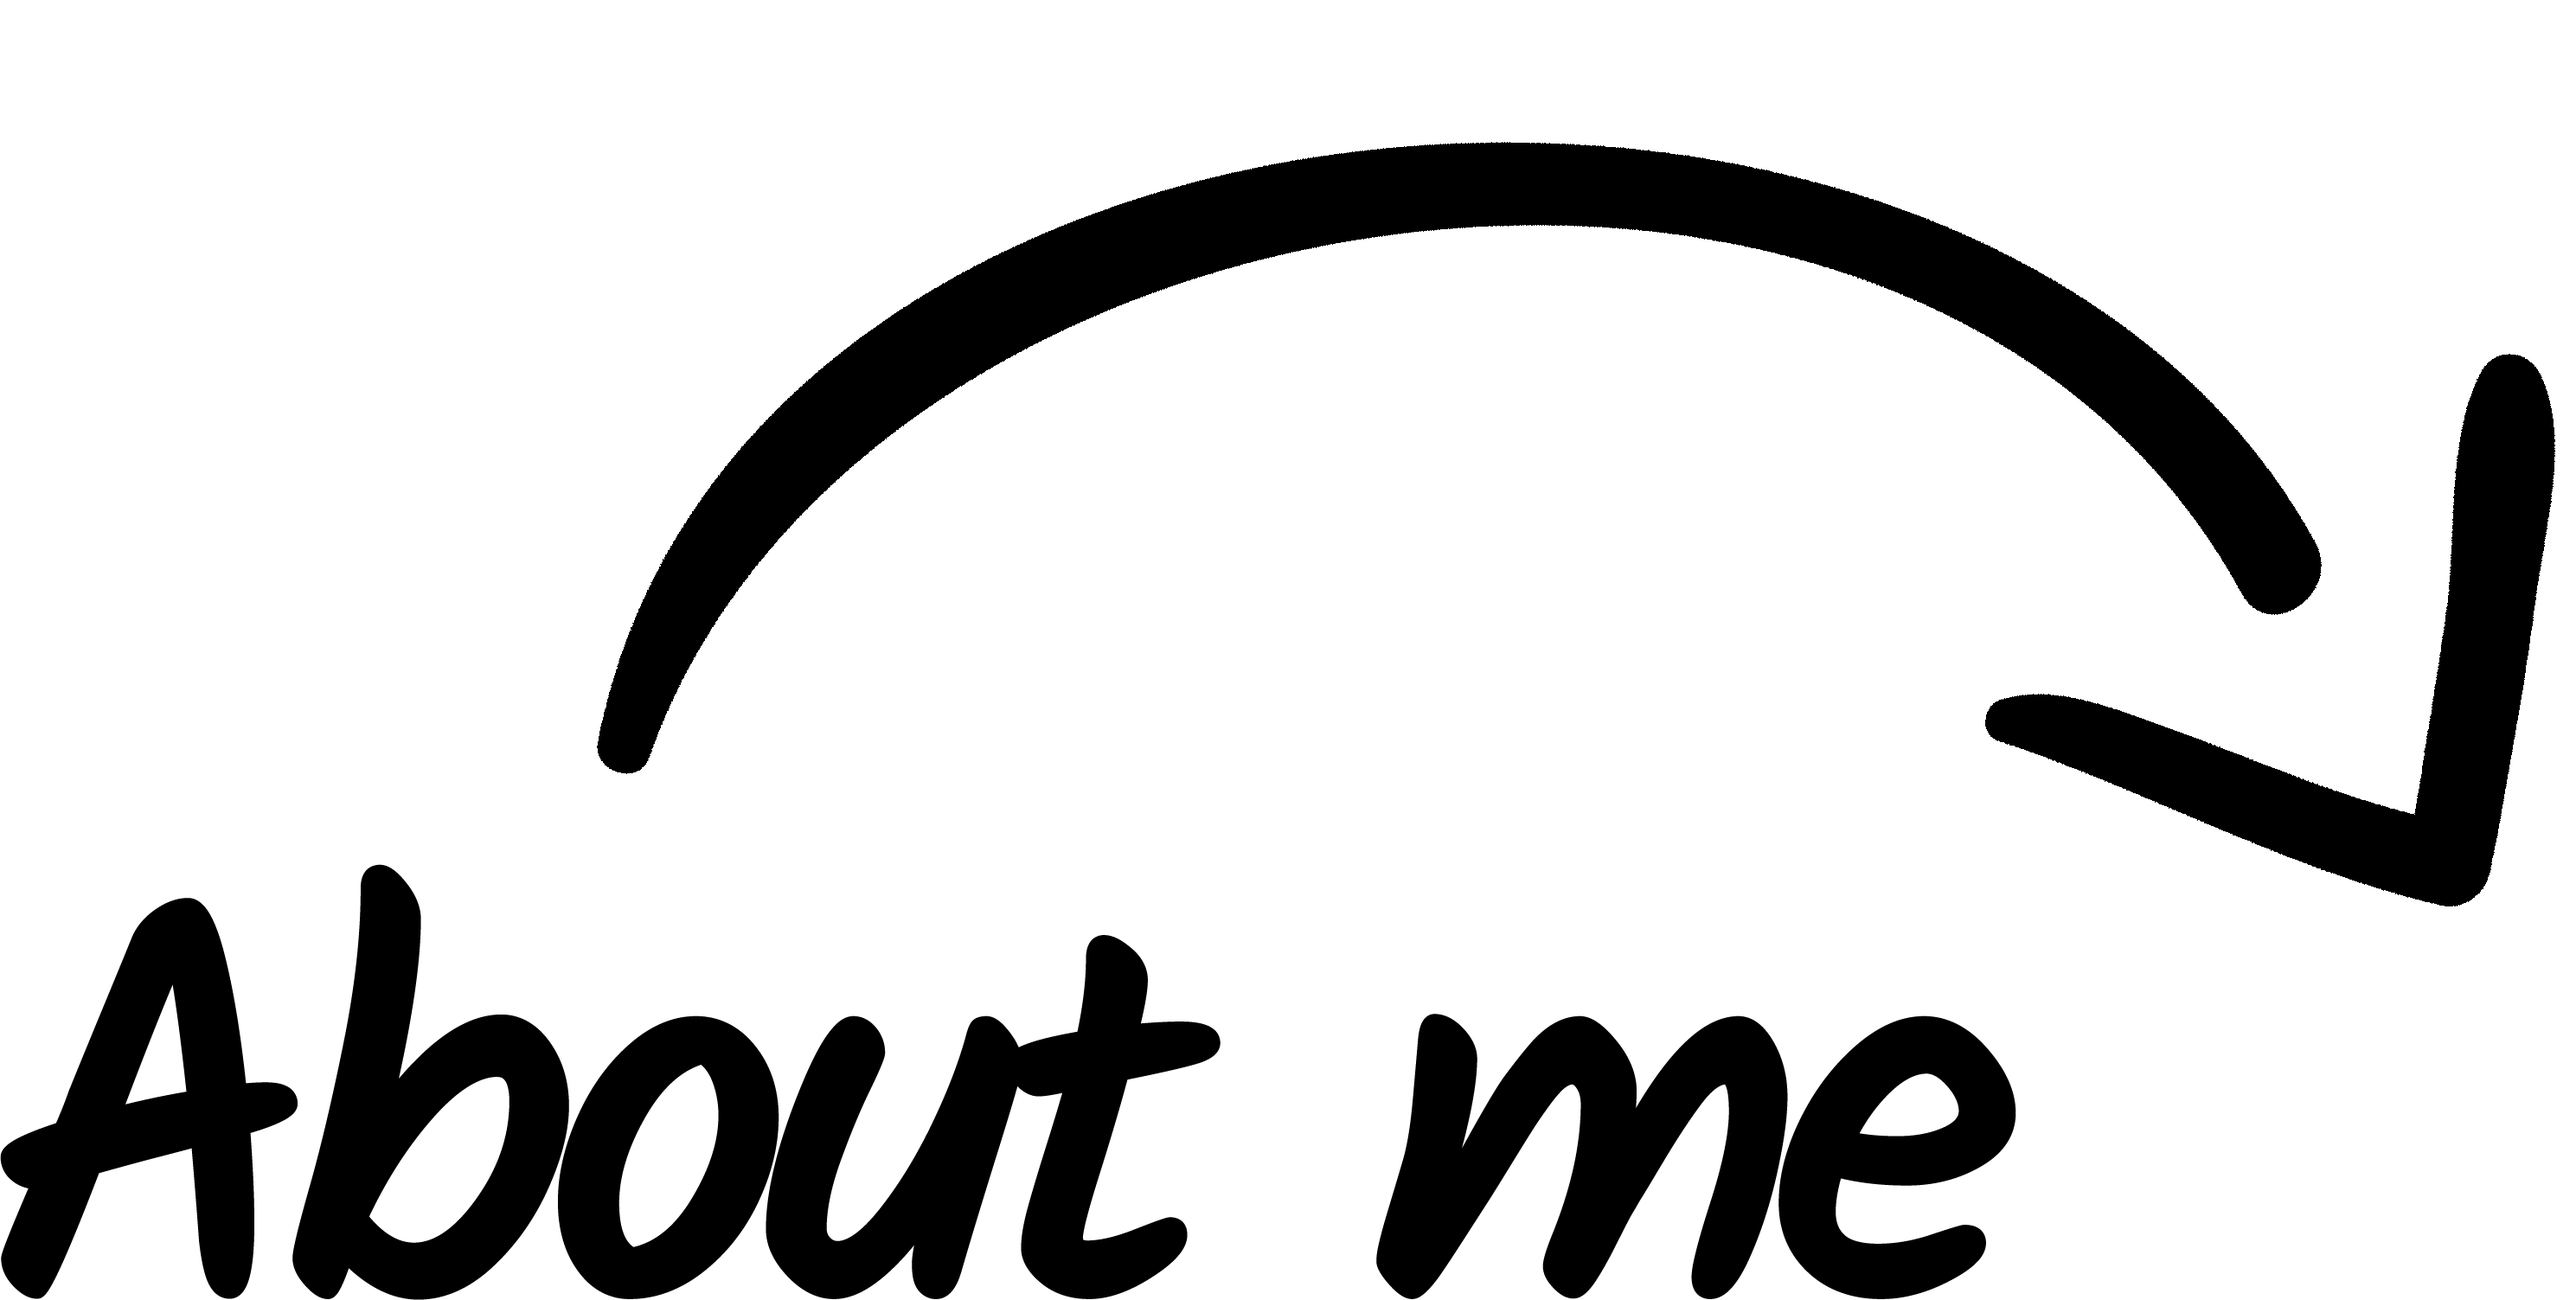
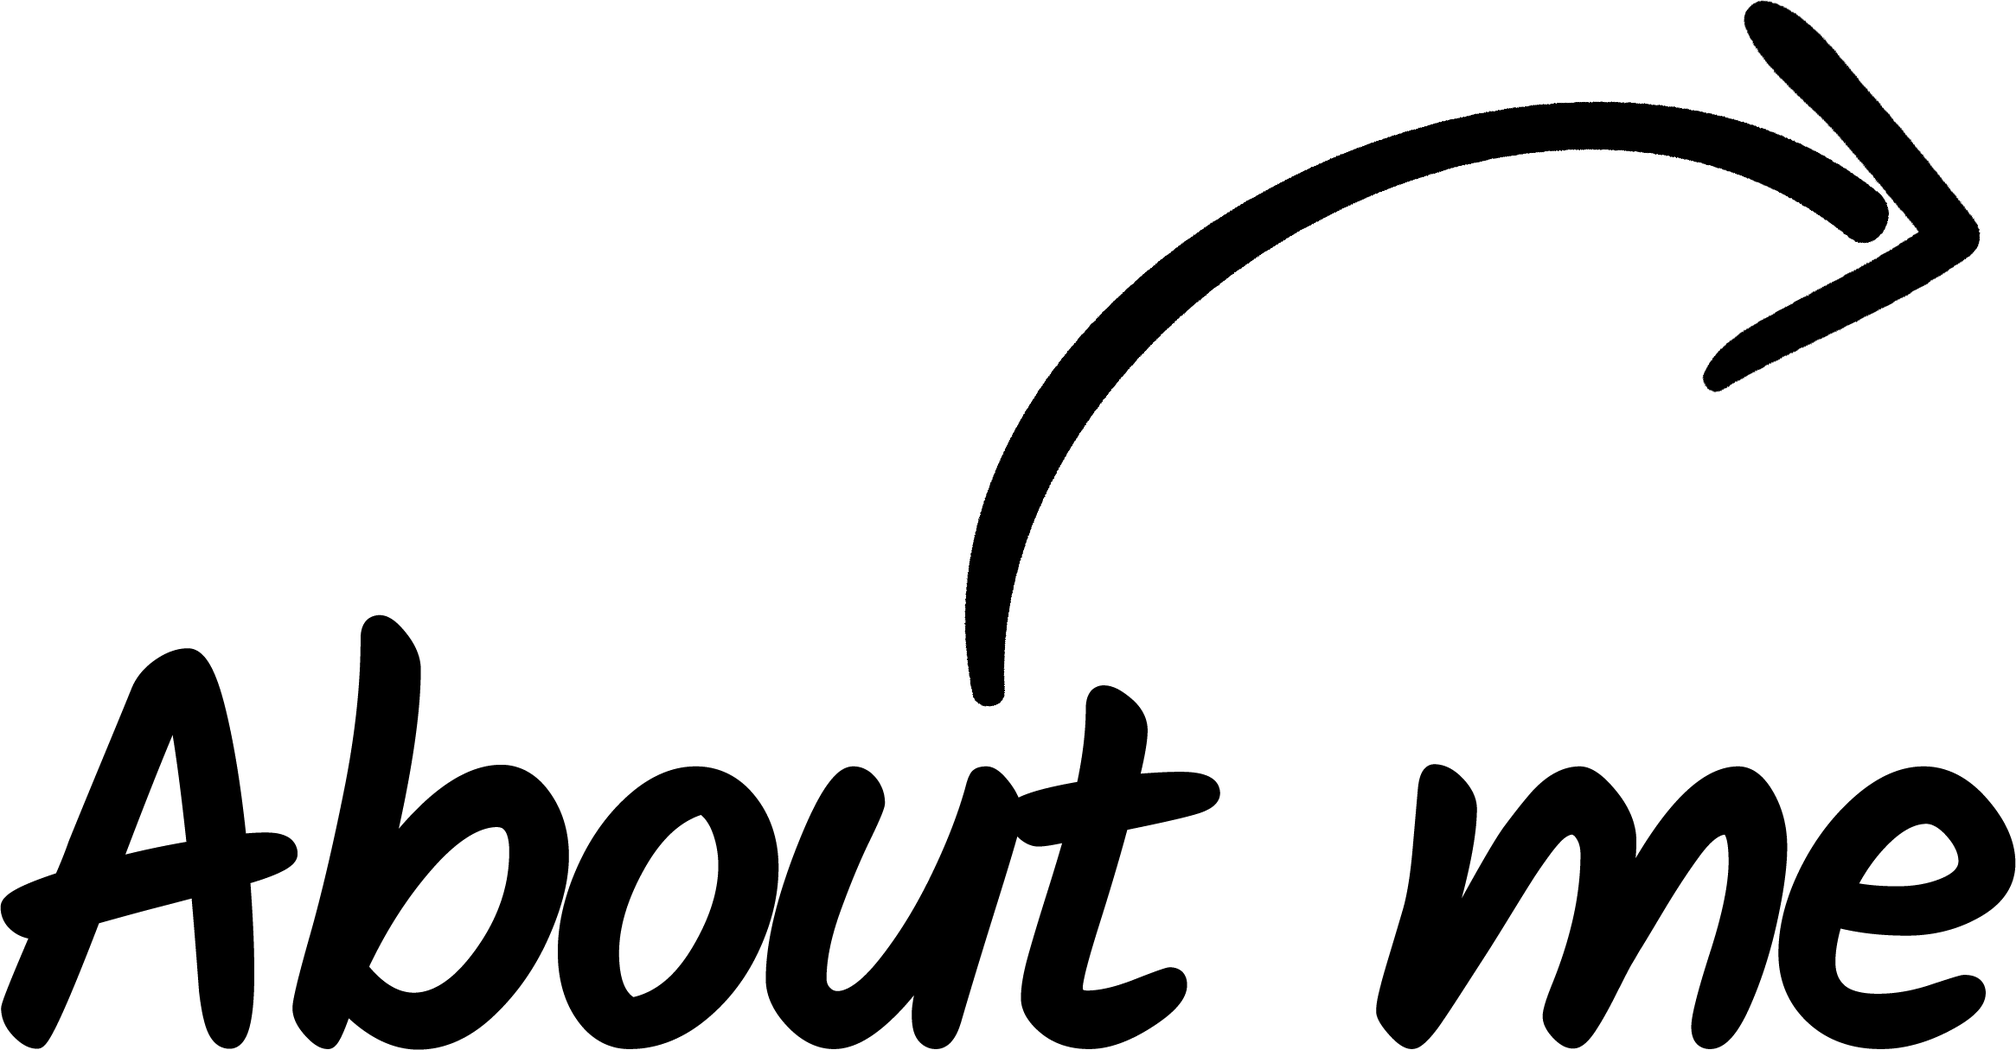
added hover js

Changed region(s): [[0.0, 0.0, 1.0, 1.0], [0.0, 0.944, 0.0309, 1.0]]

diff --git a/index.html b/index.html
@@ -7,6 +7,7 @@
 <meta name="description" content="My homepage">
 <meta name="viewport" content="width=device-width, initial-scale=1"> 
 <link rel="stylesheet" type="text/css" href="style/style.css">
+<script src="https://ajax.googleapis.com/ajax/libs/jquery/3.3.1/jquery.min.js"></script>
 <script src="script/script.js"></script>
 <link rel="stylesheet" href="https://fonts.googleapis.com/css?family=Alegreya+Sans+SC">
 
@@ -17,25 +18,25 @@
         <li><div class="hexagon"></div></li>
         <li><div class="hidden"></div></li>
         <li><div class="hidden"></div></li>
-        <li><div class="hexagon" id="title"></div></li>
+        <li><div class="hexagon"><div  id="title"></div></div></li>
         <li><div class="hexagon img" id="about"><img class="garrosh" src="images/sasasa.jpg"></div></li>
         <li><div class="hexagon"></div></li>
-        <li><div class="hexagon">
+        <li><div class="hexagon" id="social">
             <ul id="minigrid" class="clear">
                 <li><div class="hidden1"></div></li>
                 <li><div class="hidden1"></div></li>
                 <li><div class="hexagon img"><a href="mailto: tomlubkowski@gmail.com"><img class="mail" src="images/mail.png"></a></div></li>
                 <li><div class="hexagon img"><a href="http://www.github.com/tomaszlubkowski" target="_blank"><img class="git" src="images/GitHub-Mark-120px-plus.png"></a></div></li>
                 <li><div class="hexagon img"><a href="http://www.instagram.com/twojnajlepszyprzyjaciel" target="_blank"><img class="git" src="images/IG_Glyph_Fill.png"></a></div></li>
-                <li><div class="hexagon img"><a href="tel: +48694564614"><img class="phone" src="images/phone.png"></a></div></li>
+                <li><div class="hidden1"></div></li>
                 <li><div class="hidden1"></div></li>
                 <li><div class="hidden1"></div></li>
                 <li><div class="hexagon img"><a href="http://www.facebook.com/tomaszlubkowski" target="_blank"><img class="git" src="images/flogo_RGB_HEX-114.png"></a></div></li>
-                <li><div class="hexagon"></div></li>
+                <li><div class="hidden1"></div></li>
                 <li><div class="hexagon img"><a href="http://www.linkedin.com/in/tomaszlubkowski" target="_blank"><img class="lin" src="images/In-2C-128px-TM.png"></a></div></li>
-                <li><div class="hexagon"></div></li>
-                <li><div class="hexagon"></div></li>
-                <li><div class="hexagon"></div></li>
+                <li><div class="hexagon img"><a href="tel: +48694564614"><img class="phone" src="images/phone.png"></a></div></li>
+                <li><div class="hidden1"></div></li>
+                <li><div class="hidden1"></div></li>
                 <li><div class="hidden1"></div></li>
             </ul>
         </div></li>

diff --git a/style/style.css b/style/style.css
@@ -3,10 +3,26 @@ body {
 
 }
 
-div #about:hover ~ div #title{
+.about{
+    margin-left: 10%;
+    margin-top: 5%;
+    width: 80%;
+    height: 80%;
     background-image: url('../images/aboutme.png');
     background-position: center;
-    background-size: cover;
+    background-size: contain;
+    background-repeat: no-repeat;
+}
+
+.social{
+    margin-left: 10%;
+    margin-top: 15%;
+    width: 80%;
+    height: 80%;
+    background-image: url('../images/sociallinks.png');
+    background-position: center;
+    background-size: contain;
+    background-repeat: no-repeat;
 }
 
 img{    
@@ -94,8 +110,8 @@ img:hover{
 
 #minigrid {
     position: relative;
-    width: 90%;
-    margin: -5% -5% auto;
+    width: 100%;
+    margin-left: -12%;
     padding: 0; /* Clears unordered list default of 40px */
 }
 

diff --git a/script/script.js b/script/script.js
@@ -1,0 +1,14 @@
+$(document).ready(
+    function(){
+    $("#social").hover(function(){
+        $("#title").addClass("social");
+    },
+    function(){
+        $("#title").removeClass("social");
+    });
+    $("#about").hover(function(){
+        $("#title").addClass("about");
+    },
+    function(){
+        $("#title").removeClass("about");
+    })});
